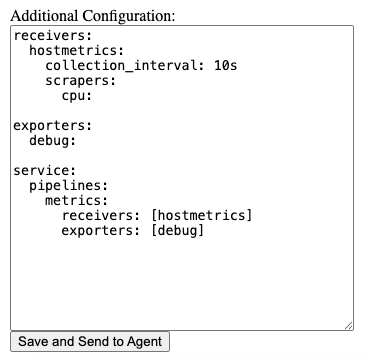
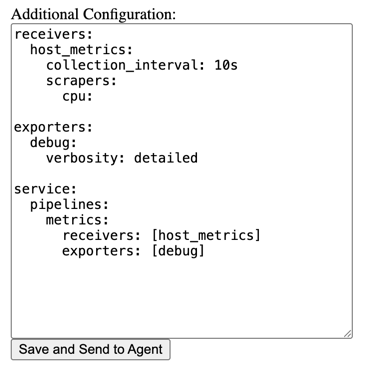
docs: update collector configs with host_metrics name

diff --git a/content/en/docs/collector/deploy/other/agent-to-gateway/_index.md b/content/en/docs/collector/deploy/other/agent-to-gateway/_index.md
@@ -144,7 +144,7 @@ receivers:
         endpoint: 0.0.0.0:4317
 
   # Collect host metrics
-  hostmetrics:
+  host_metrics:
     scrapers:
       cpu:
       memory:
@@ -180,7 +180,7 @@ service:
       processors: [memory_limiter, resourcedetection]
       exporters: [otlp]
     metrics:
-      receivers: [otlp, hostmetrics]
+      receivers: [otlp, host_metrics]
       processors: [memory_limiter, resourcedetection]
       exporters: [otlp]
     logs:

diff --git a/content/en/docs/collector/management.md b/content/en/docs/collector/management.md
@@ -230,7 +230,7 @@ Click on the Collector in the server UI and paste the following content to the
 
 ```yaml
 receivers:
-  hostmetrics:
+  host_metrics:
     collection_interval: 10s
     scrapers:
       cpu:
@@ -243,7 +243,7 @@ exporters:
 service:
   pipelines:
     metrics:
-      receivers: [hostmetrics]
+      receivers: [host_metrics]
       exporters: [debug]
 ```
 

diff --git a/content/en/docs/collector/configuration.md b/content/en/docs/collector/configuration.md
@@ -277,7 +277,7 @@ receivers:
     endpoint: 0.0.0.0:8006
 
   # Data sources: metrics
-  hostmetrics:
+  host_metrics:
     scrapers:
       cpu:
       disk:

diff --git a/content/en/docs/collector/scaling.md b/content/en/docs/collector/scaling.md
@@ -249,7 +249,7 @@ spec:
 ### Scaling the Scrapers
 
 Some receivers are actively obtaining telemetry data to place in the pipeline,
-like the hostmetrics and prometheus receivers. While getting host metrics isn’t
+like the host_metrics and prometheus receivers. While getting host metrics isn’t
 something we’d typically scale up, we might need to split the job of scraping
 thousands of endpoints for the Prometheus receiver. And we can’t simply add more
 instances with the same configuration, as each Collector would try to scrape the

diff --git a/content/en/docs/platforms/kubernetes/collector/components.md b/content/en/docs/platforms/kubernetes/collector/components.md
@@ -732,7 +732,7 @@ and then configure the Host Metrics Receiver to use the `volumeMount`:
 
 ```yaml
 receivers:
-  hostmetrics:
+  host_metrics:
     root_path: /hostfs
     collection_interval: 10s
     scrapers: